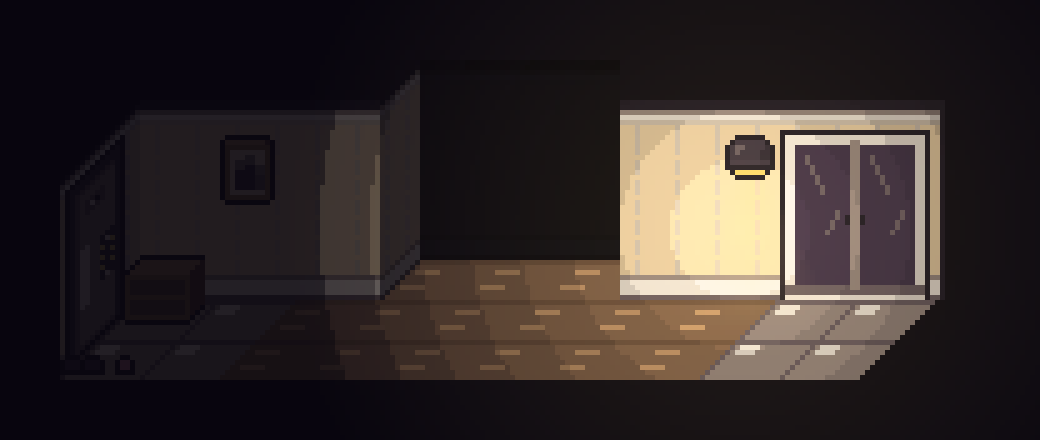
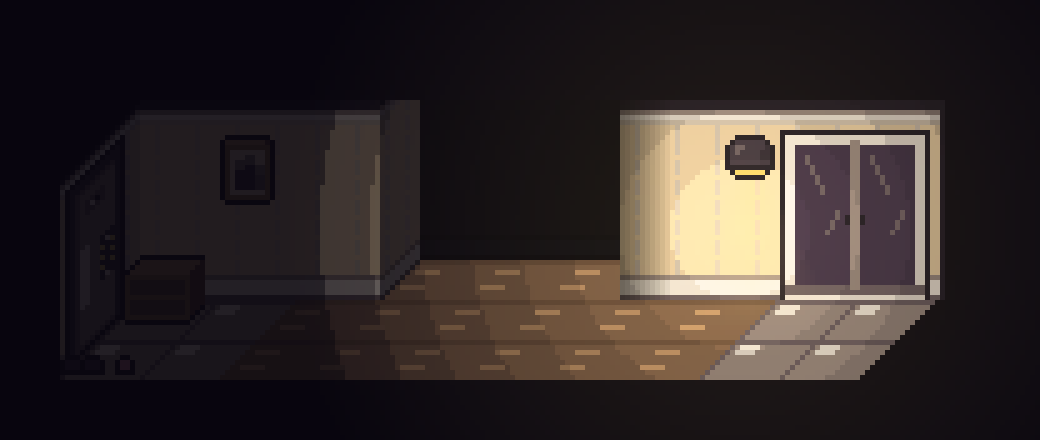
Corridor: soften recess edges, clip black panel at wall top line
Claude-Session: https://claude.ai/code/session_01FPZSaKiVNU2zED737yZX4w

Changed region(s): [[0.5846, 0.2364, 0.6462, 0.6795], [0.3692, 0.1773, 0.4, 0.2364]]

diff --git a/tools/render_room.py b/tools/render_room.py
@@ -83,7 +83,7 @@ def render_room(path, scale=1):
         by2 = Y0 - SS * (D + RD)                                         # 알코브: 한 칸 안쪽의 뒷벽 + 왼쪽 옆벽
         for X in range(int(X0 + SK * (D + RD) + ra * T), int(min(X0 + SK * (D + RD) + (rb + 1) * T, X0 + SK * D + (rb + 1) * T))):    # 오른쪽은 앞에 있는 바깥 벽이 가리므로 그 왼쪽 끝에서 자른다
             x = X + .5 - X0 - SK * (D + RD); c = c0 + int(x // T)
-            for Y in range(int(by2 - wallh), int(by2)):
+            for Y in range(int(by2 - wallh) + int(SS * RD), int(by2)):        # 윗부분은 바깥 벽의 윗선에서 자른다(튀어나와 보이지 않게)
                 z = by2 - (Y + .5)
                 if z < 16: nm, ty = tile(rows[base_row][c]), 15 - int(z)
                 elif z < 32: nm, ty = tile(rows[mid_row][c]), 15 - int(z - 16)
@@ -94,12 +94,21 @@ def render_room(path, scale=1):
         for X in range(int(X0 + ra * T + SK * D), int(X0 + ra * T + SK * (D + RD)) + 1) if extra.get('recess_side') != 'none' else []:     # none: 옆벽은 시점에서 보이지 않으므로 그리지 않는다
             d = (X + .5 - X0 - ra * T) / SK
             if not (D <= d < D + RD): continue
-            for Y in range(int(Y0 - SS * (D + RD) - wallh), int(Y0 - SS * D) + 1):
+            for Y in range(int(Y0 - SS * D - wallh), int(Y0 - SS * D) + 1):
                 z = (Y0 - SS * d) - (Y + .5)
                 if not (0 <= z < wallh): continue
                 nm, ty = (names['base'], 15 - int(z)) if z < 16 else (names['mid'], 15 - int(z - 16)) if z < 32 else (names['top'], int(wallh - 1 - z))
                 r_, g_, b_, a_ = get(nm, int(d), ty); fk_ = .04 if extra.get('recess_side') == 'hidden' else (.38 if extra.get('recess_side') == 'dark' else (.25 if extra_dark else .72))
                 px[X, Y] = (int(r_ * fk_), int(g_ * fk_), int(b_ * fk_ * 1.1), a_)
+        if rc:                                                              # 검은 안쪽 면과 밝은 벽이 만나는 오른쪽 가장자리를 부드럽게
+            xe = int(X0 + SK * D + (rb + 1) * T)
+            for dx in range(10):
+                kk = .45 + .55 * (dx / 10) ** 1.2
+                for Y in range(int(by - wallh), int(by)):
+                    X = xe + dx
+                    if 0 <= X < CW:
+                        r_, g_, b_, a_ = px[X, Y]
+                        if a_: px[X, Y] = (int(r_ * kk), int(g_ * kk), int(b_ * kk), a_)
     emitters = []
     def stamp(name, left, bottom):                           # 정면 스프라이트 (왼쪽 아래 모서리 기준)
         sp = lib[name]; img.alpha_composite(sp, (int(round(left)), int(round(bottom - sp.height))))
